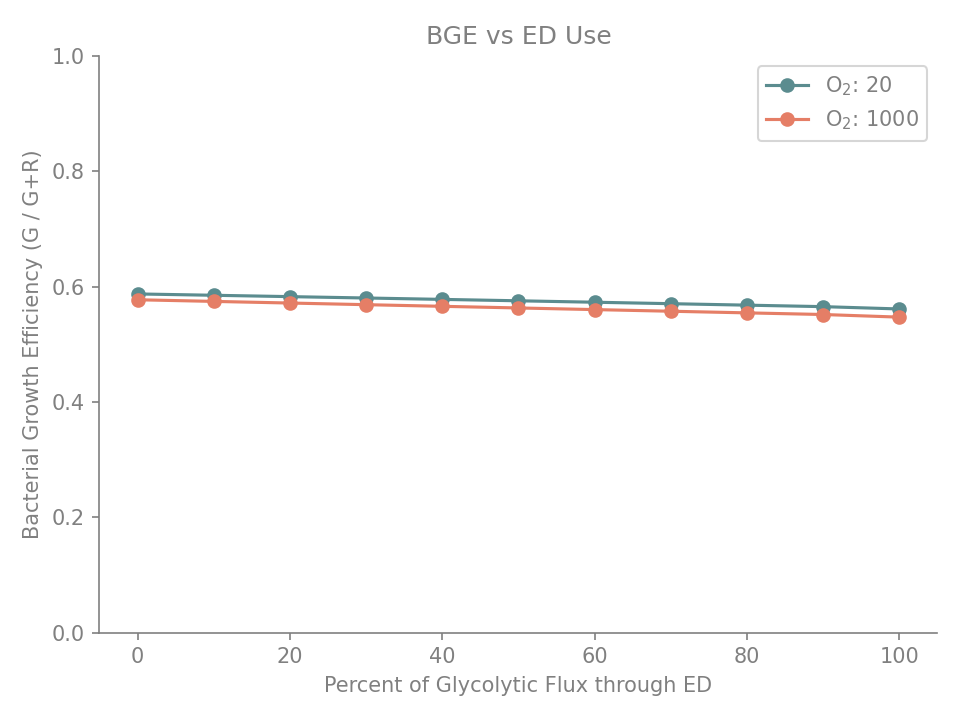
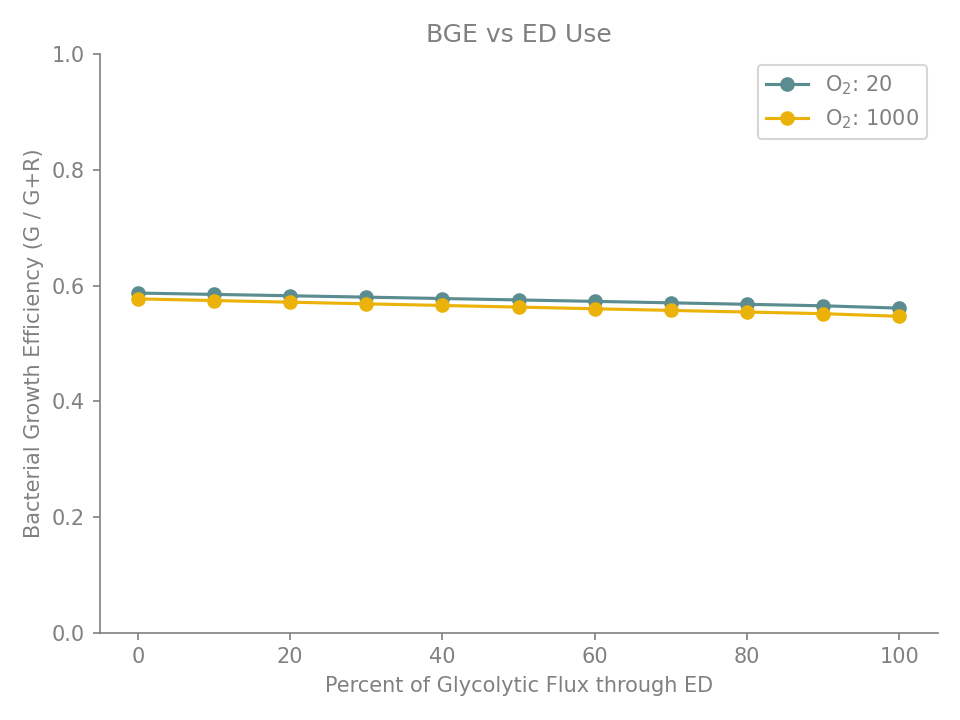
fix: change o2 1000 color to yellow

diff --git a/simulations/emp_vs_ed/forced_ed_tradeoffs/plot_growth_vs_ed_use.py b/simulations/emp_vs_ed/forced_ed_tradeoffs/plot_growth_vs_ed_use.py
@@ -21,7 +21,7 @@ sys.path.append(str(REPO_ROOT))
 from plot_styles import set_plot_style, summer_colors  # noqa: E402
 
 # Color each O2 level with a summer-palette color
-O2_COLORS = {20: summer_colors["teal"], 1000: summer_colors["pink"]}
+O2_COLORS = {20: summer_colors["teal"], 1000: summer_colors["yellow"]}
 
 
 def plot_metric(df, metric, ylabel, title, filename, ylim=None):
@@ -52,24 +52,42 @@ def main():
 
     # Growth rate (the headline tradeoff): default autoscaled + a 0-anchored view
     plot_metric(
-        df, "growth_rate", "Growth Rate (h$^{-1}$)", "Growth Rate vs ED Use",
+        df,
+        "growth_rate",
+        "Growth Rate (h$^{-1}$)",
+        "Growth Rate vs ED Use",
         "growth_rate_vs_ed_use.png",
     )
     plot_metric(
-        df, "growth_rate", "Growth Rate (h$^{-1}$)", "Growth Rate vs ED Use",
-        "growth_rate_vs_ed_use_full_range.png", ylim=(0, 0.85),
+        df,
+        "growth_rate",
+        "Growth Rate (h$^{-1}$)",
+        "Growth Rate vs ED Use",
+        "growth_rate_vs_ed_use_full_range.png",
+        ylim=(0, 0.85),
     )
     plot_metric(
-        df, "cue", "Carbon Use Efficiency", "CUE vs ED Use",
-        "cue_vs_ed_use.png", ylim=(0, 1),
+        df,
+        "cue",
+        "Carbon Use Efficiency",
+        "CUE vs ED Use",
+        "cue_vs_ed_use.png",
+        ylim=(0, 1),
     )
     plot_metric(
-        df, "bge", "Bacterial Growth Efficiency (G / G+R)", "BGE vs ED Use",
-        "bge_vs_ed_use.png", ylim=(0, 1),
+        df,
+        "bge",
+        "Bacterial Growth Efficiency (G / G+R)",
+        "BGE vs ED Use",
+        "bge_vs_ed_use.png",
+        ylim=(0, 1),
     )
     plot_metric(
-        df, "acetate_secretion", "Acetate Secretion (mmol/gDW/hr)",
-        "Acetate Secretion vs ED Use", "acetate_secretion_vs_ed_use.png",
+        df,
+        "acetate_secretion",
+        "Acetate Secretion (mmol/gDW/hr)",
+        "Acetate Secretion vs ED Use",
+        "acetate_secretion_vs_ed_use.png",
     )
     print("Saved figures to", OUT_PATH)
 
